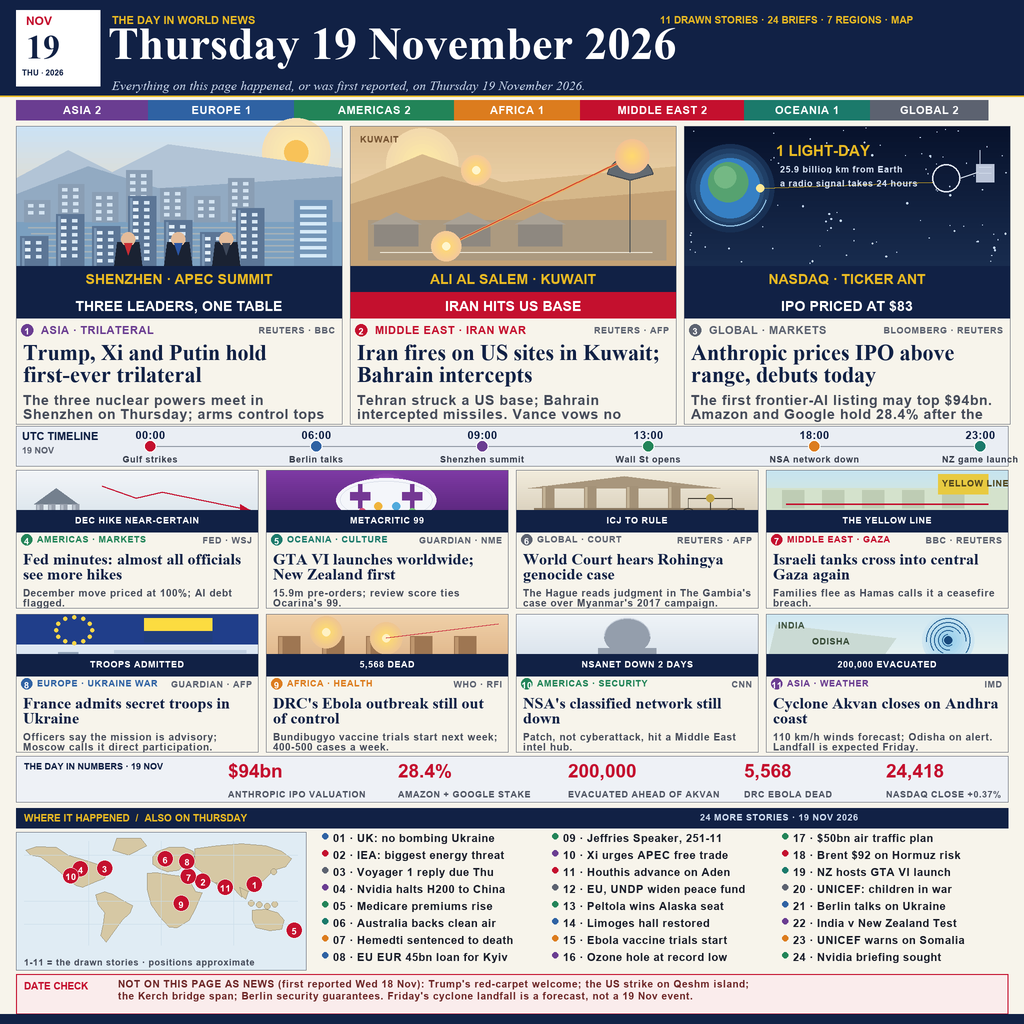
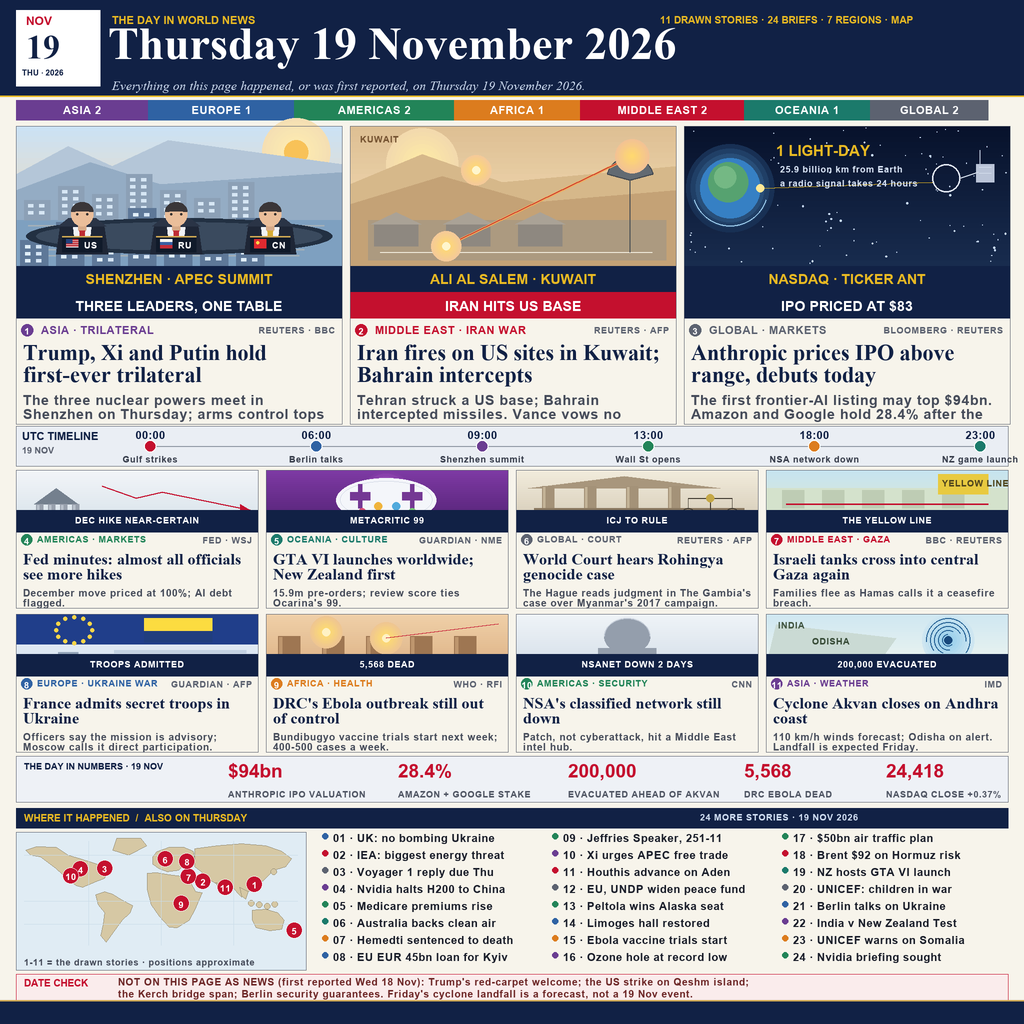
Clarify summit leaders and compact the date-check box

Changed region(s): [[0.0, 0.9375, 1.0, 1.0], [0.0, 0.125, 0.3438, 0.2812]]

diff --git a/render.py b/render.py
@@ -129,34 +129,62 @@ def art_shenzhen(d,x0,y0,x1,y1):
     vg(d,x0,y0,x1,y1,(204,226,244),(250,216,170))
     glow(d,x1-46,y0+26,34,(255,238,176),(244,222,180))
     d.ellipse([x1-58,y0+14,x1-34,y0+38],fill=(248,194,88))
-    d.polygon([(x0,y0+52),(x0+52,y0+24),(x0+96,y0+46),(x0+152,y0+18),
-               (x1,y0+42),(x1,y0+82),(x0,y0+82)],fill=(178,196,214))
-    d.polygon([(x0,y0+68),(x0+72,y0+40),(x0+142,y0+62),(x1,y0+50),
-               (x1,y0+98),(x0,y0+98)],fill=(146,170,194))
-    d.rectangle([x0,y0+96,x1,y1],fill=(124,160,192))
+    d.polygon([(x0,y0+48),(x0+52,y0+20),(x0+96,y0+40),(x0+152,y0+14),
+               (x1,y0+38),(x1,y0+82),(x0,y0+82)],fill=(180,198,216))
+    d.polygon([(x0,y0+64),(x0+74,y0+36),(x0+144,y0+58),(x1,y0+46),
+               (x1,y0+96),(x0,y0+96)],fill=(148,172,196))
+    d.rectangle([x0,y0+94,x1,y1],fill=(126,160,192))
     for k in range(6):
-        d.rectangle([x0+12+k*3,y0+101+k*6,x1-18-k*5,y0+102+k*6],
-                    fill=mix((124,160,192),(250,216,170),0.32))
-    for i,ht in enumerate([22,38,30,52,34,26,44]):
+        d.rectangle([x0+12+k*3,y0+99+k*6,x1-18-k*5,y0+100+k*6],
+                    fill=mix((126,160,192),(250,216,170),0.3))
+    for i,ht in enumerate([20,34,26,46,30,22,38]):
         bx=x0+8+i*34
-        d.rectangle([bx,y0+96-ht,bx+26,y0+96],fill=(138,158,180))
-        for wy in range(y0+100-ht,y0+92,7):
-            d.rectangle([bx+4,wy,bx+9,wy+3],fill=(210,226,240))
-            d.rectangle([bx+15,wy,bx+20,wy+3],fill=(210,226,240))
-    for i,ht in enumerate([30,52,40,70,46,34,58]):
+        d.rectangle([bx,y0+94-ht,bx+26,y0+94],fill=(140,160,182))
+        for wy in range(y0+98-ht,y0+90,7):
+            d.rectangle([bx+4,wy,bx+9,wy+3],fill=(214,230,244))
+            d.rectangle([bx+15,wy,bx+20,wy+3],fill=(214,230,244))
+    for i,ht in enumerate([26,44,34,58,38,28,48]):
         bx=x0+4+i*36
-        d.rectangle([bx,y1-ht,bx+28,y1],fill=(92,118,150))
-        d.rectangle([bx+2,y1-ht+2,bx+4,y1],fill=(122,150,180))
+        d.rectangle([bx,y1-ht,bx+28,y1],fill=(94,120,152))
         for wy in range(y1-ht+5,y1-6,7):
-            d.rectangle([bx+5,wy,bx+10,wy+3],fill=(226,238,248))
-            d.rectangle([bx+16,wy,bx+21,wy+3],fill=(214,230,244))
-    for cx,col in [(x0+112,(198,44,52)),(x0+162,(42,84,162)),(x0+210,(62,72,90))]:
-        d.polygon([(cx-14,y1),(cx-11,y1-24),(cx+11,y1-24),(cx+14,y1)],fill=(26,34,50))
-        d.ellipse([cx-7,y1-34,cx+7,y1-20],fill=(228,188,154))
-        d.polygon([(cx-4,y1-23),(cx+4,y1-23),(cx,y1-11)],fill=col)
-    d.rectangle([x1-48,y1-66,x1-10,y1],fill=(116,150,184))
-    for wy in range(y1-60,y1-6,8):
-        d.rectangle([x1-42,wy,x1-16,wy+3],fill=(214,234,248))
+            d.rectangle([bx+5,wy,bx+10,wy+3],fill=(224,238,248))
+            d.rectangle([bx+16,wy,bx+21,wy+3],fill=(212,228,244))
+    # the table
+    d.ellipse([x0+10,y1-48,x1-10,y1-12],fill=(34,48,66))
+    d.ellipse([x0+20,y1-44,x1-20,y1-16],fill=(58,74,94))
+    # three named leaders: United States, Russia, China
+    for cx,label,kind in [(x0+66,"US","us"),(x0+160,"RU","ru"),(x0+254,"CN","cn")]:
+        d.polygon([(cx-26,y1-12),(cx-22,y1-40),(cx+22,y1-40),(cx+26,y1-12)],
+                  fill=(30,38,54))
+        d.polygon([(cx-24,y1-40),(cx-14,y1-48),(cx+14,y1-48),(cx+24,y1-40)],
+                  fill=(42,52,70))
+        d.polygon([(cx-9,y1-39),(cx+9,y1-39),(cx+7,y1-20),(cx-7,y1-20)],
+                  fill=(240,242,246))
+        tie=(190,44,52) if kind!="cn" else (214,172,54)
+        d.polygon([(cx-3,y1-38),(cx+3,y1-38),(cx+2,y1-24),(cx,y1-19),(cx-2,y1-24)],
+                  fill=tie)
+        d.rectangle([cx-4,y1-46,cx+4,y1-36],fill=(214,170,136))
+        d.ellipse([cx-11,y1-64,cx+11,y1-40],fill=(234,190,154))
+        d.pieslice([cx-11,y1-64,cx+11,y1-46],175,365,fill=(58,54,56))
+        d.ellipse([cx-6,y1-53,cx-4,y1-51],fill=(58,52,50))
+        d.ellipse([cx+4,y1-53,cx+6,y1-51],fill=(58,52,50))
+        # name plate: small national flag plus US / RU / CN
+        d.rectangle([cx-20,y1-30,cx+20,y1-14],fill=(16,26,42))
+        d.rectangle([cx-20,y1-30,cx+20,y1-29],fill=(206,168,83))
+        fx,fy=cx-16,y1-27
+        if kind=="us":
+            d.rectangle([fx,fy,fx+12,fy+8],fill=(242,244,248))
+            for r in range(4):
+                d.rectangle([fx,fy+r*2,fx+12,fy+r*2+1],fill=(190,44,52))
+            d.rectangle([fx,fy,fx+6,fy+4],fill=(36,64,124))
+        elif kind=="ru":
+            d.rectangle([fx,fy,fx+12,fy+3],fill=(246,246,244))
+            d.rectangle([fx,fy+3,fx+12,fy+6],fill=(56,96,164))
+            d.rectangle([fx,fy+6,fx+12,fy+9],fill=(196,44,56))
+        else:
+            d.rectangle([fx,fy,fx+12,fy+9],fill=(222,42,48))
+            d.ellipse([fx+2,fy+2,fx+5,fy+5],fill=(250,214,72))
+        txt(d,cx+2,y1-26,label,F_MICRO,WHITE)
 
 def art_gulf(d,x0,y0,x1,y1):
     vg(d,x0,y0,x1,y1,(222,192,148),(250,228,190))
@@ -530,13 +558,14 @@ for k,(reg,brief) in enumerate(BRIEFS[:24]):
     txt(d,x+11,y,one_line(s,F_BRIEF,210,d),F_BRIEF,INK)
 
 # date check: only what is NOT on this page, phrased so it cannot contradict
-d.rectangle([16,974,1008,1014],fill=(250,236,236),outline=RED,width=2)
-txt(d,24,980,"DATE CHECK",f("arialbd.ttf",10),RED)
-txt(d,118,978,"NOT ON THIS PAGE AS NEWS (first reported Wed 18 Nov): Trump's red-carpet welcome; the US strike on Qeshm island;",F_TINY,(110,40,40))
-txt(d,118,990,"the Kerch bridge span; Berlin security guarantees. Friday's cyclone landfall is a forecast, not a 19 Nov event.",F_TINY,(110,40,40))
+d.rectangle([16,974,1008,1000],fill=(250,236,236),outline=RED,width=1)
+txt(d,24,977,"DATE CHECK",f("arialbd.ttf",10),RED)
+txt(d,118,976,"NOT ON THIS PAGE AS NEWS (first reported Wed 18 Nov): Trump's red-carpet welcome; the US strike on Qeshm island;",F_TINY,(110,40,40))
+txt(d,118,988,"the Kerch bridge span; Berlin security guarantees. Friday's cyclone landfall is a forecast, not a 19 Nov event.",F_TINY,(110,40,40))
 
-# footer - world clock removed; the freed space went to the map and timeline
-d.rectangle([0,1014,W,H],fill=NAVY)
+# footer - world clock removed; left as a clean band, not padded with filler
+d.rectangle([0,1000,W,H],fill=NAVY)
+d.rectangle([0,1000,W,1001],fill=(206,168,83))
 
 out=os.environ.get("MAKEFUN_OUTPUT","C:\\Users\\User\\Aws\\agent\\entry_build_1119\\preview_v2.png")
 parent=os.path.dirname(out)
